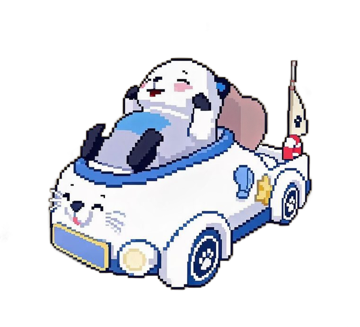
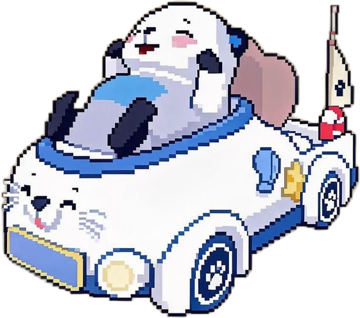
style: 专属花车嘉宾改回胶囊、按作品分组加标识；逆水寒只显示所选日嘉宾；删造型行；抠图去掉边缘碎片
- 出席嘉宾用与头号花车同款 .pill；阅文 / 米哈游按作品分组，每行行首蓝色作品标识；米哈游注释删掉
- 逆水寒五天嘉宾拆进每天的名单（来自逆水寒 9/15 笔记），分段标题 + 当日主题灰字放名单下，出处进页尾来源卡
- 左栏不再显示「🚗 造型」行
- cut-floats.py 只保留主体连通块，阅文 / 米哈游左侧残留碎片已清掉，八台重抠

diff --git a/src/data/parade.js b/src/data/parade.js
@@ -134,7 +134,8 @@ export const paradeRoute = {
 // IP 主题花车（官方「花车巡礼」半层 7 台 + RED LAND 官方号 9/5「前方高能！XX 专属花车准备发车！」系列笔记 + 9/16 米哈游四大 IP 花车）
 // ip 用短名（逆水寒 / 永劫无间 / 无畏契约 / 米哈游），融合花车用 ips 列子 IP；desc 是官方一句话文案，页面上不再显示（用户 9/17）；
 // 每台 public/img/parade/<id>/cut.png 是从 00.jpg 效果图抠出的透明底花车，显示在 IP 名下方
-// guests：出席嘉宾角色名单。day 1–5 按日；day 'all' 表示 DAY1–DAY5 全程；chars 逐字照官方图；label 为官方图上的分段标题。
+// guests：出席嘉宾名单。day 1–5 按日；day 'all' 表示 DAY1–DAY5 全程；chars 逐字照官方图，融合花车用 groups[{ ip, chars }] 按作品分组；
+// label 为官方图上的分段标题（灰字放名单下）。look 是官方写的造型，页面已不显示（用户 9/17）。extraSource 是嘉宾名单的额外出处，进页尾来源卡
 // 笔记正文里的「点击【大麦APP】进入购买主角通行证页面」属票务，不收；图注「花车效果图仅供参考，最终呈现效果以实际为准」。
 const floatSrc = (title, url, noteId) => ({ title, url, noteId, author: 'RED LAND 官方号', publishedAt: '2026-09-05' })
 export const themeFloats = [
@@ -161,16 +162,17 @@ export const themeFloats = [
     look: '青花瓷 + 桃花花车',
     intro: '汴京灯起，霓裳翩翩！从三清山一路驶向黄金海岸线。',
     images: ['img/parade/nishuihan/00.jpg', 'img/parade/nishuihan/01.jpg'],
-    // 官方图按主题而非角色列：DAY1 为「特别开场：神秘惊喜亮相」，DAY2–5 为「闪耀新世界，花车时尚大秀开幕」
+    // chars = 当日花车巡游嘉宾（逆水寒 9/15「登岛邀请」笔记，B-15 展台情报，按 10.2–10.6 拆到每天）；
+    // label = RED LAND 官方号花车笔记里的分段标题 + 当日主题（官方图按主题而非角色列）。页面只显示所选那天（用户 9/17）
     guests: [
-      { day: 1, label: '特别开场：神秘惊喜亮相', chars: ['逆水寒全新联动专属惊喜'] },
-      { day: 2, label: '闪耀新世界，花车时尚大秀开幕', chars: ['公主的裙摆'] },
-      { day: 3, label: '闪耀新世界，花车时尚大秀开幕', chars: ['森林中的精灵'] },
-      { day: 4, label: '闪耀新世界，花车时尚大秀开幕', chars: ['月色化蝶，花下再遇'] },
-      { day: 5, label: '闪耀新世界，花车时尚大秀开幕', chars: ['不落幕的圆舞曲'] },
+      { day: 1, label: '特别开场：神秘惊喜亮相 · 逆水寒全新联动专属惊喜', chars: ['叶勤聪', '李有鑫', '奇迹绣绣'] },
+      { day: 2, label: '闪耀新世界，花车时尚大秀开幕 · 公主的裙摆', chars: ['烤猪猪'] },
+      { day: 3, label: '闪耀新世界，花车时尚大秀开幕 · 森林中的精灵', chars: ['云知笑'] },
+      { day: 4, label: '闪耀新世界，花车时尚大秀开幕 · 月色化蝶，花下再遇', chars: ['張張Shirley', '薪水的薪'] },
+      { day: 5, label: '闪耀新世界，花车时尚大秀开幕 · 不落幕的圆舞曲', chars: ['梅莉', '小溪Liz'] },
     ],
-    // 逆水寒 9/15「登岛邀请」笔记（B-15 展台情报）另公布了花车巡游嘉宾，按日补记于此
-    guestNote: '花车巡游嘉宾（逆水寒 2026-09-15 展台情报笔记）：10.2 叶勤聪 / 李有鑫 / 奇迹绣绣，10.3 烤猪猪，10.4 云知笑，10.5 張張Shirley / 薪水的薪，10.6 梅莉 / 小溪Liz。',
+    // 嘉宾名单的出处（进页尾来源卡）
+    extraSource: { title: '【内含门票】滴滴，您有一份登岛邀请请查收（花车巡游嘉宾按日名单）', url: 'https://xhslink.cn/o/32b4sTIG4RJ', noteId: '6aa8e678000000000d027c19', author: '逆水寒', publishedAt: '2026-09-15' },
     source: floatSrc('前方高能！逆水寒专属花车准备发车！', 'https://xhslink.cn/o/W41HoYtgoG', '6a9b1099000000002803bdb0'),
   },
   {
@@ -222,13 +224,13 @@ export const themeFloats = [
     look: '书本船',
     intro: '从书页之间到同频共鸣，你曾读过的那些世界，将随着花车缓缓展开。',
     images: ['img/parade/yuewen/00.jpg', 'img/parade/yuewen/01.jpg', 'img/parade/yuewen/02.jpg'],
-    // 官方图按「作品：角色」列，这里保留作品前缀
+    // 官方图按「作品：角色」列：按作品分组（groups），页面每个作品一行、前面带作品标识（用户 9/17）
     guests: [
-      { day: 1, chars: ['道诡异仙：李火旺', '道诡异仙：白灵淼', '一人之下：冯宝宝', '一人之下：张楚岚', '一人之下：王也', '一人之下：诸葛青', '一人之下：张灵玉', '诡秘之主：克莱恩', '诡秘之主：奥黛丽', '狐妖小红娘：涂山红红', '狐妖小红娘：东方月初', '狐妖小红娘：涂山苏苏', '狐妖小红娘：白月初', '全职高手：叶修'] },
-      { day: 2, chars: ['道诡异仙：李火旺', '道诡异仙：白灵淼', '一人之下：冯宝宝', '一人之下：张楚岚', '诡秘之主：克莱恩', '诡秘之主：奥黛丽', '狐妖小红娘：涂山红红', '狐妖小红娘：东方月初', '狐妖小红娘：涂山苏苏', '狐妖小红娘：白月初', '狐妖小红娘：王权富贵', '狐妖小红娘：清瞳', '全职高手：叶修'] },
-      { day: 3, chars: ['道诡异仙：李火旺', '道诡异仙：白灵淼', '一人之下：王也', '一人之下：诸葛青', '一人之下：张灵玉', '诡秘之主：克莱恩', '狐妖小红娘：涂山苏苏', '狐妖小红娘：白月初', '狐妖小红娘：王权富贵', '狐妖小红娘：清瞳', '全职高手：叶修'] },
-      { day: 4, chars: ['道诡异仙：李火旺', '道诡异仙：白灵淼', '一人之下：王也', '诡秘之主：奥黛丽', '狐妖小红娘：涂山苏苏', '全职高手：叶修'] },
-      { day: 5, chars: ['道诡异仙：李火旺', '道诡异仙：白灵淼', '一人之下：冯宝宝', '一人之下：张楚岚', '诡秘之主：道恩', '狐妖小红娘：涂山苏苏', '全职高手：叶修'] },
+      { day: 1, groups: [{ ip: '道诡异仙', chars: ['李火旺', '白灵淼'] }, { ip: '一人之下', chars: ['冯宝宝', '张楚岚', '王也', '诸葛青', '张灵玉'] }, { ip: '诡秘之主', chars: ['克莱恩', '奥黛丽'] }, { ip: '狐妖小红娘', chars: ['涂山红红', '东方月初', '涂山苏苏', '白月初'] }, { ip: '全职高手', chars: ['叶修'] }] },
+      { day: 2, groups: [{ ip: '道诡异仙', chars: ['李火旺', '白灵淼'] }, { ip: '一人之下', chars: ['冯宝宝', '张楚岚'] }, { ip: '诡秘之主', chars: ['克莱恩', '奥黛丽'] }, { ip: '狐妖小红娘', chars: ['涂山红红', '东方月初', '涂山苏苏', '白月初', '王权富贵', '清瞳'] }, { ip: '全职高手', chars: ['叶修'] }] },
+      { day: 3, groups: [{ ip: '道诡异仙', chars: ['李火旺', '白灵淼'] }, { ip: '一人之下', chars: ['王也', '诸葛青', '张灵玉'] }, { ip: '诡秘之主', chars: ['克莱恩'] }, { ip: '狐妖小红娘', chars: ['涂山苏苏', '白月初', '王权富贵', '清瞳'] }, { ip: '全职高手', chars: ['叶修'] }] },
+      { day: 4, groups: [{ ip: '道诡异仙', chars: ['李火旺', '白灵淼'] }, { ip: '一人之下', chars: ['王也'] }, { ip: '诡秘之主', chars: ['奥黛丽'] }, { ip: '狐妖小红娘', chars: ['涂山苏苏'] }, { ip: '全职高手', chars: ['叶修'] }] },
+      { day: 5, groups: [{ ip: '道诡异仙', chars: ['李火旺', '白灵淼'] }, { ip: '一人之下', chars: ['冯宝宝', '张楚岚'] }, { ip: '诡秘之主', chars: ['道恩'] }, { ip: '狐妖小红娘', chars: ['涂山苏苏'] }, { ip: '全职高手', chars: ['叶修'] }] },
     ],
     source: floatSrc('前方高能！阅文专属花车准备出发！', 'https://xhslink.cn/o/8rIDDKvdO9y', '6a9b130b0000000026021247'),
   },
@@ -241,9 +243,19 @@ export const themeFloats = [
     look: '车站顶棚造型花车（按效果图）',
     intro: '冒险、星际旅行、战斗、种田一站式集齐，属于米家玩家的狂欢即将开启！主角们！锁定巡礼路线，准备开启四个不同幻想世界的同台巡游吧！',
     images: ['img/parade/mihoyo/00.jpg', 'img/parade/mihoyo/01.jpg'],
-    // 官方图「出席嘉宾角色名单」只按 IP 列、没有按日区分，先按全程记
-    guests: [{ day: 'all', chars: ['派蒙（原神）', '帕姆（崩坏：星穹铁道）', '伊埃斯（绝区零）', '奥陌陌（星布谷地）'] }],
-    guestNote: '官方名单只按 IP 列出嘉宾、未标注日期，按 DAY1–DAY5 全程记，以现场节目单为准；奥陌陌另见星布谷地 9/16 自己的「惊喜活动预告」（每日 17:00 – 17:30 巡游）。',
+    // 官方图「出席嘉宾角色名单」只按 IP 列、没有按日区分，按全程记（day 'all'）；按 IP 分组每行一个（用户 9/17）。
+    // 奥陌陌另见星布谷地 9/16 自己的「惊喜活动预告」（每日 17:00 – 17:30 巡游），页面上不再注释
+    guests: [
+      {
+        day: 'all',
+        groups: [
+          { ip: '原神', chars: ['派蒙'] },
+          { ip: '崩坏：星穹铁道', chars: ['帕姆'] },
+          { ip: '绝区零', chars: ['伊埃斯'] },
+          { ip: '星布谷地', chars: ['奥陌陌'] },
+        ],
+      },
+    ],
     source: {
       title: '前方高能！米哈游四大IP花车准备出发！',
       url: 'https://xhslink.cn/o/5aSRuJEF9LL',

diff --git a/src/views/ParadePage.vue b/src/views/ParadePage.vue
@@ -65,15 +65,23 @@
               {{ f.ip }}
               <img class="fl-cut" :src="base + 'img/parade/' + f.id + '/cut.png'" :alt="f.ip + ' 专属花车'" loading="lazy" @click="openImgs(floatImages(f), 0)" />
               <div v-if="f.ips" class="small muted fl-sub">{{ f.ips.join(' / ') }}</div>
-              <div class="small muted" style="font-weight:600;margin-top:2px">🚗 {{ f.look }}</div>
             </div>
             <!-- 右栏：标题固定「出席嘉宾」，名单按所选 DAY 列（day 'all' 为全程通用）；不再显示一句话文案 desc（用户 9/17） -->
             <div class="chars fl-body">
               <div class="small" style="font-weight:700;color:var(--brown)">出席嘉宾</div>
               <template v-if="guestsFor(f)">
-                <!-- 嘉宾名单用普通文字顿号拼接，不套胶囊（用户 9/17），与详情页 .sched-guests 一致 -->
-                <div class="small sched-guests">{{ guestsFor(f).chars.join('、') }}</div>
-                <div v-if="guestsFor(f).label" class="small muted">{{ guestsFor(f).label }}</div>
+                <!-- 嘉宾用 .pill 胶囊，与头号花车同款（用户 9/17 定稿：先要过顿号拼接、后又改回胶囊）；
+                     融合花车（阅文 / 米哈游）按作品分组，每个作品一行、行首蓝色作品标识 -->
+                <template v-if="guestsFor(f).groups">
+                  <div v-for="g in guestsFor(f).groups" :key="g.ip" class="fl-pills fl-group">
+                    <span class="tag blue text fl-tag">{{ g.ip }}</span>
+                    <span v-for="c in g.chars" :key="c" class="pill" :class="{ warm: /神秘|人气|待/.test(c) }">{{ c }}</span>
+                  </div>
+                </template>
+                <div v-else class="fl-pills">
+                  <span v-for="c in guestsFor(f).chars" :key="c" class="pill" :class="{ warm: /神秘|人气|待/.test(c) }">{{ c }}</span>
+                </div>
+                <div v-if="guestsFor(f).label" class="small muted mt-4">{{ guestsFor(f).label }}</div>
               </template>
               <div v-else class="small muted">当日名单待公布</div>
               <div v-if="f.guestNote" class="small muted mt-4">* {{ f.guestNote }}</div>
@@ -156,7 +164,11 @@ const guestsFor = (f) => f.guests?.find((g) => g.day === day.value) || f.guests?
 const floatRefers = (f, b) => ipRefersTo([f.ip, ...(f.ips || [])].join(' / '), b)
 
 // 页尾「来源」卡：主来源 = 官方半层（paradeInfo.source）；其余 = 路线图笔记 + 每台专属花车的笔记，按「作者 · 标题」列成按钮
-const otherSources = [{ ...paradeRoute.source, author: 'RED LAND 官方号' }, ...themeFloats.filter((f) => f.source).map((f) => f.source)]
+const otherSources = [
+  { ...paradeRoute.source, author: 'RED LAND 官方号' },
+  ...themeFloats.filter((f) => f.source).map((f) => f.source),
+  ...themeFloats.filter((f) => f.extraSource).map((f) => f.extraSource),
+]
 
 // 灯箱：路线图 / 各花车笔记图
 const lb = reactive({ items: [], i: null })

diff --git a/src/style.css b/src/style.css
@@ -298,6 +298,10 @@ img { max-width: 100%; display: block; }
 /* 专属花车左栏：透明底抠图 + 融合花车的子 IP 灰字（用户 9/17） */
 .fl-cut { display: block; width: 100%; max-width: 124px; height: auto; margin-top: 4px; cursor: pointer; image-rendering: auto; }
 .fl-sub { font-weight: 600; line-height: 1.35; margin-top: 2px; }
+/* 专属花车嘉宾胶囊（与头号花车同款 .pill）；融合花车按作品分行，行首蓝色作品标识（与舞台页节目条目的 IP 标同款） */
+.fl-pills { display: flex; flex-wrap: wrap; align-items: center; }
+.fl-group + .fl-group { margin-top: 2px; }
+.fl-tag { font-size: 10px; padding: 2px 6px; margin: 3px 6px 0 0; }
 .fl-thumbs img { width: 56px; height: 56px; object-fit: cover; border: 2px solid var(--navy); border-radius: 3px; cursor: pointer; background: #fff; }
 
 /* 图片画廊 */

diff --git a/scripts/cut-floats.py b/scripts/cut-floats.py
@@ -6,19 +6,40 @@
   python scripts/cut-floats.py --sheet        # 另存一张棋盘底预览到 %TEMP%/floats_cuts.png 方便肉眼核对
 
 做法（2026-09-17）：官方效果图是统一模板——花车居中，四周是像素沙滩 / 海水 / 贝壳装饰、上方引言、下方红字标题。
-先裁掉上下的文字区（只留 16%–80% 高度），再用 rembg 的 isnet-general-use 模型抠前景；
-u2net 对阅文（书上立着的展板）和米哈游（车站顶棚）这类细碎结构会丢掉一大块，isnet 能保住，所以统一用 isnet。
-不做 post_process_mask（会把细杆抹掉），抠完按 alpha 包围盒裁边、缩到最长边 360px。
+1. 先裁掉上下的文字区（只留 16%–80% 高度）；
+2. 用 rembg 的 isnet-general-use 模型抠前景。u2net 对阅文（书上立着的展板）和米哈游（车站顶棚）这类细碎结构会丢掉一大块，
+   isnet 能保住，所以统一用 isnet；不做 post_process_mask（会把细杆抹掉）；
+3. 只保留 alpha 掩膜里最大的连通块，以及面积 ≥ 最大块 3% 的其他块——裁切区边缘的贝壳 / 沙滩碎片会被 isnet 一起留下
+   （用户 9/17 指出阅文、米哈游左侧各有一小块没抠干净），按面积过滞掉；花车自身的分离部件（旗杆、气球）都远大于 3%；
+4. 按 alpha 包围盒裁边、缩到最长边 360px。
 """
 import os
 import sys
+
+import numpy as np
 from PIL import Image
 from rembg import remove, new_session
+from scipy import ndimage
 
 ROOT = os.path.join(os.path.dirname(__file__), '..', 'public', 'img', 'parade')
 ALL = ['eggy', 'nishuihan', 'xindong', 'yimo', 'naraka', 'valorant', 'yuewen', 'mihoyo']
 CROP = (0.03, 0.16, 0.97, 0.80)  # x0, y0, x1, y1（相对宽高）
 MAX = 360
+KEEP_RATIO = 0.03
+
+
+def drop_fragments(rgba):
+    """只留主体连通块（及面积 ≥ 主体 3% 的块），其余 alpha 清零"""
+    a = np.array(rgba)
+    mask = a[:, :, 3] > 8
+    lab, n = ndimage.label(mask)
+    if n <= 1:
+        return rgba
+    sizes = ndimage.sum(mask, lab, range(1, n + 1))
+    keep = {i + 1 for i, s in enumerate(sizes) if s >= sizes.max() * KEEP_RATIO}
+    drop = ~np.isin(lab, list(keep))
+    a[drop, 3] = 0
+    return Image.fromarray(a, 'RGBA')
 
 
 def cut(fid, sess):
@@ -27,6 +48,7 @@ def cut(fid, sess):
     w, h = im.size
     crop = im.crop((int(w * CROP[0]), int(h * CROP[1]), int(w * CROP[2]), int(h * CROP[3])))
     out = remove(crop, session=sess, post_process_mask=False)
+    out = drop_fragments(out)
     out = out.crop(out.getbbox())
     out.thumbnail((MAX, MAX))
     dst = os.path.join(ROOT, fid, 'cut.png')
